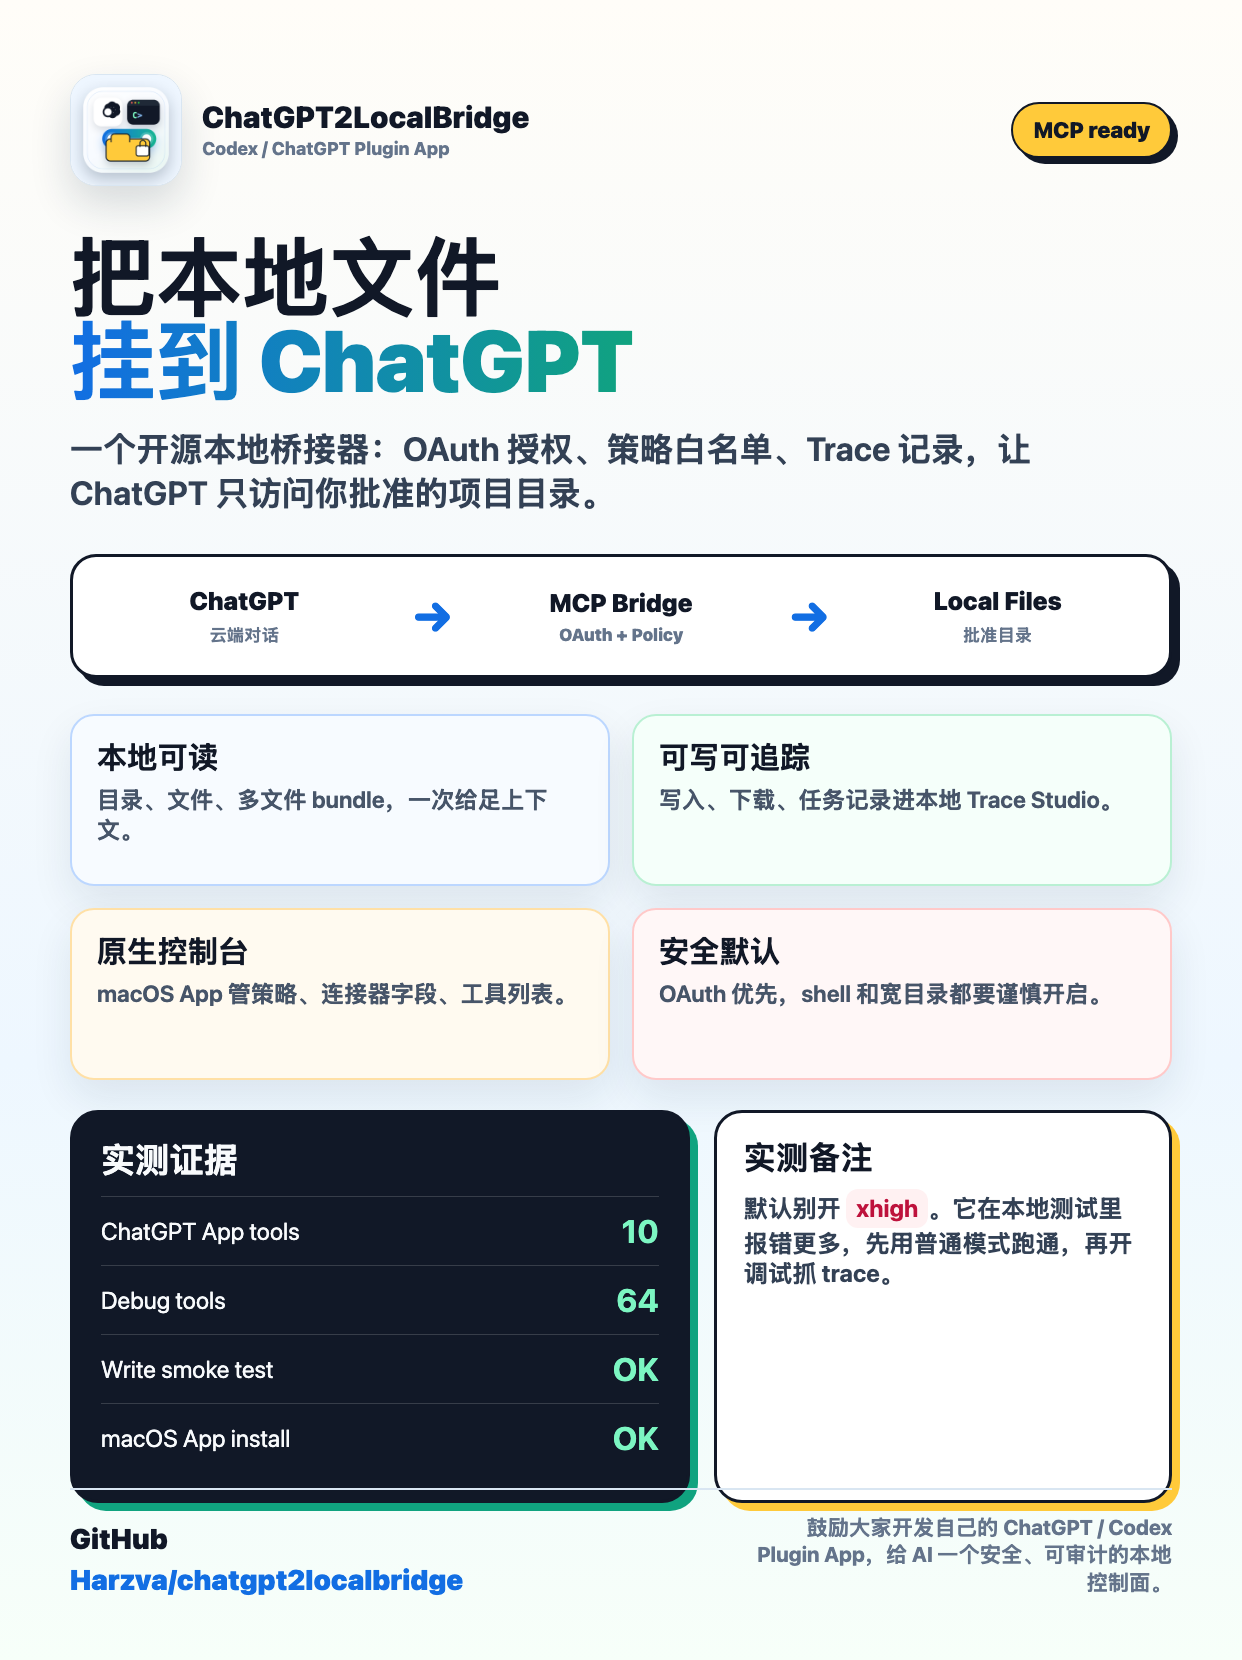
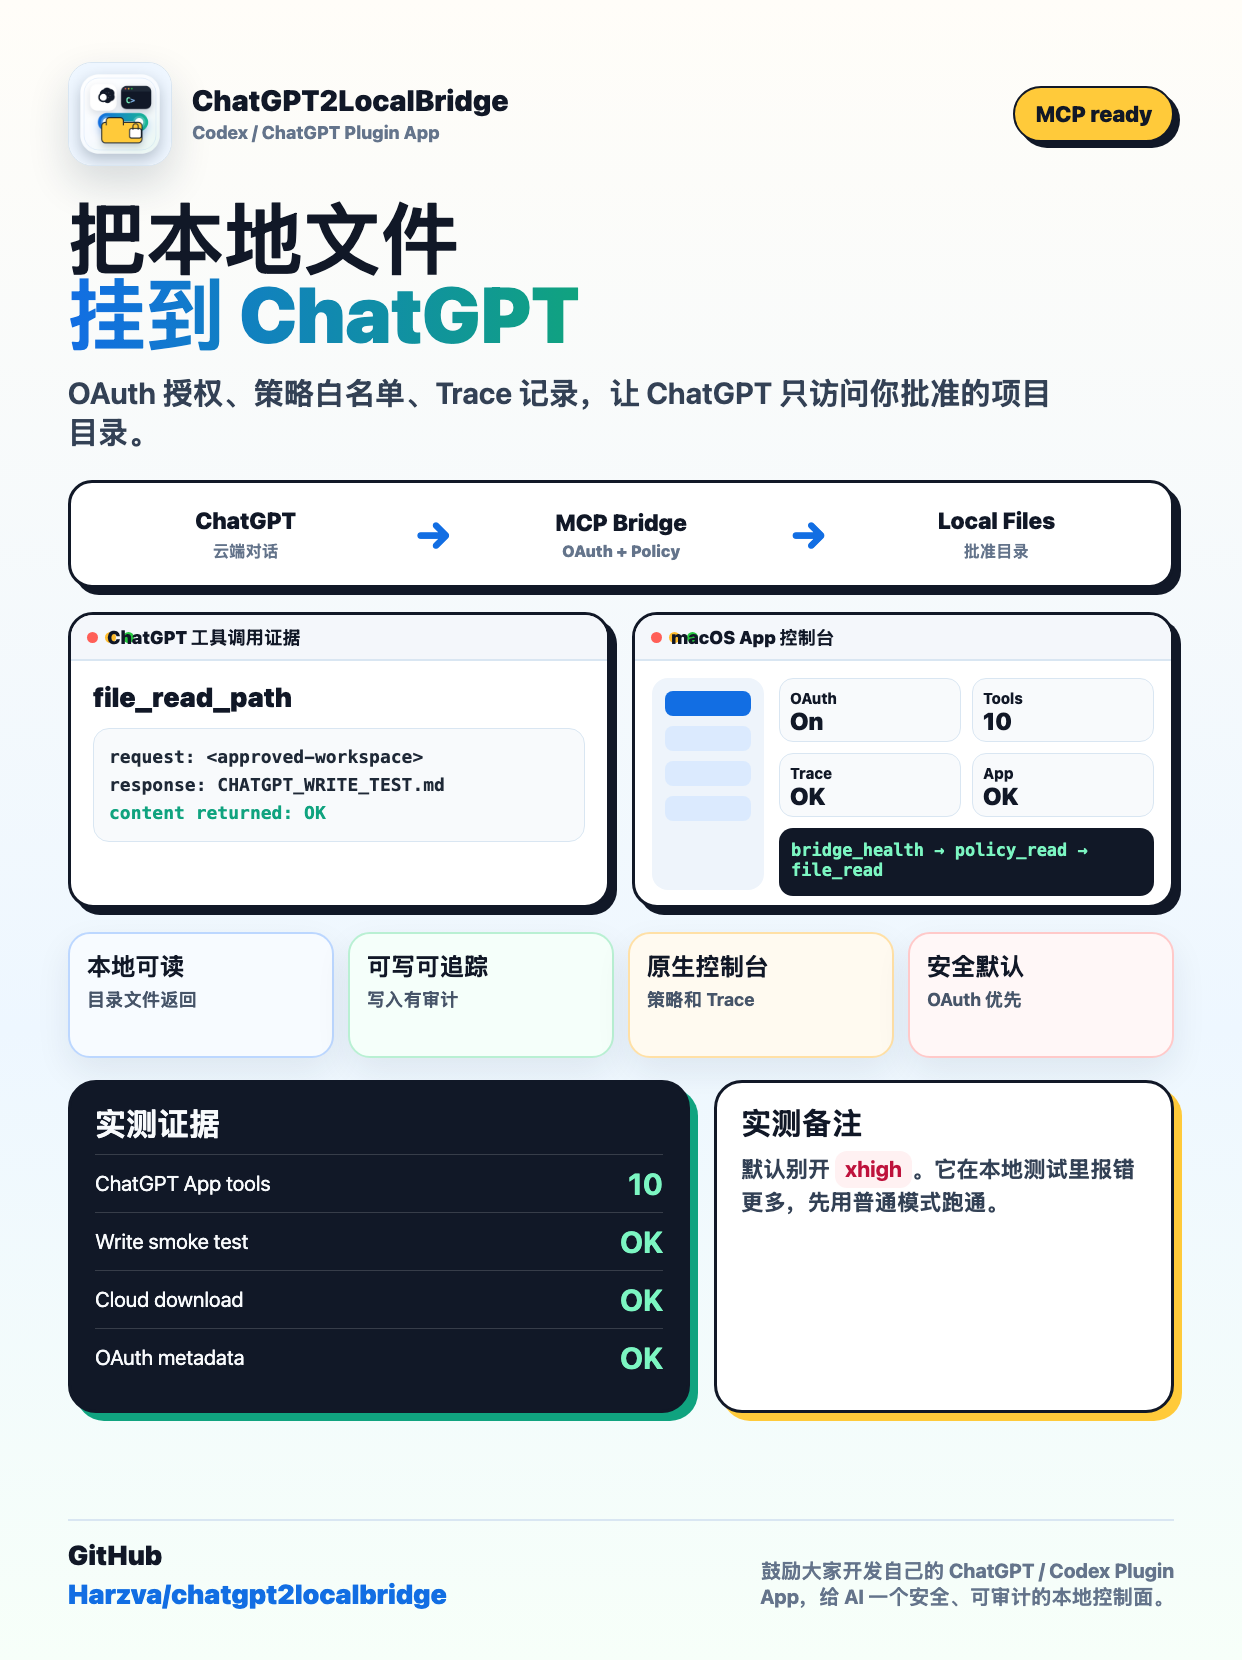
Add XHS evidence and community promo assets

Changed region(s): [[0.0306, 0.0307, 0.9485, 0.9831], [0.7955, 0.0307, 0.9485, 0.1229]]

diff --git a/docs/assets/mockups/xhs-promo.html b/docs/assets/mockups/xhs-promo.html
@@ -1,12 +1,13 @@
 <!doctype html><html><head><meta charset="utf-8"><style>
   *{box-sizing:border-box}body{margin:0;width:1242px;height:1660px;background:#f7f4ee;font-family:-apple-system,BlinkMacSystemFont,"SF Pro Display","PingFang SC","Microsoft YaHei",Arial,sans-serif;color:#111827;overflow:hidden}
-  .page{position:relative;width:100%;height:100%;padding:74px 70px;background:linear-gradient(180deg,#fffdf8 0%,#eef7ff 64%,#f7fff9 100%)}
-  .top{display:flex;align-items:center;justify-content:space-between;margin-bottom:48px}
-  .brand{display:flex;align-items:center;gap:20px}.logo{width:112px;height:112px;border-radius:26px;background:#fff;border:1px solid #d9e6f2;box-shadow:0 18px 40px rgba(20,42,70,.16);overflow:hidden}.logo img{width:100%;height:100%;display:block}.brandText{font-size:30px;font-weight:900;line-height:1.05}.brandText span{display:block;font-size:18px;color:#64748b;margin-top:8px;font-weight:800}
+  .page{position:relative;width:100%;height:100%;padding:62px 68px;background:linear-gradient(180deg,#fffdf8 0%,#eef7ff 62%,#f7fff9 100%)}
+  .top{display:flex;align-items:center;justify-content:space-between;margin-bottom:34px}
+  .brand{display:flex;align-items:center;gap:20px}.logo{width:104px;height:104px;border-radius:24px;background:#fff;border:1px solid #d9e6f2;box-shadow:0 18px 40px rgba(20,42,70,.16);overflow:hidden}.logo img{width:100%;height:100%;display:block}.brandText{font-size:29px;font-weight:900;line-height:1.05}.brandText span{display:block;font-size:18px;color:#64748b;margin-top:8px;font-weight:800}
   .badge{border:2px solid #111827;border-radius:999px;padding:13px 20px;font-size:22px;font-weight:900;background:#ffca3a;box-shadow:6px 6px 0 #111827}
-  h1{font-size:86px;line-height:.98;letter-spacing:0;margin:0 0 24px;font-weight:950;max-width:1030px}.grad{background:linear-gradient(90deg,#126ee3,#10a37f);-webkit-background-clip:text;color:transparent}.sub{font-size:33px;line-height:1.36;color:#334155;max-width:990px;margin:0 0 38px;font-weight:650}
-  .route{height:124px;border:3px solid #111827;border-radius:26px;background:#fff;box-shadow:8px 8px 0 #111827;display:grid;grid-template-columns:1fr 90px 1fr 90px 1fr;align-items:center;padding:0 28px;margin-bottom:36px}.node{text-align:center;font-size:25px;font-weight:900}.node small{display:block;font-size:17px;color:#64748b;margin-top:8px}.arrow{text-align:center;font-size:44px;color:#126ee3;font-weight:950}
-  .grid{display:grid;grid-template-columns:1fr 1fr;gap:22px;margin-bottom:30px}.card{min-height:172px;background:#fff;border:2px solid #d9e6f2;border-radius:24px;padding:24px 25px;box-shadow:0 18px 42px rgba(20,42,70,.09)}.card strong{display:block;font-size:30px;line-height:1.1;margin-bottom:12px}.card p{font-size:23px;line-height:1.28;color:#475569;margin:0;font-weight:650}.card.blue{border-color:#bcd7ff;background:#f7fbff}.card.green{border-color:#b9f0d3;background:#f5fffa}.card.yellow{border-color:#ffe0a6;background:#fffaf0}.card.red{border-color:#ffc9c9;background:#fff7f7}
-  .proof{display:grid;grid-template-columns:1.15fr .85fr;gap:24px;margin-bottom:34px}.panel{border:3px solid #111827;border-radius:28px;background:#111827;color:#f8fafc;padding:28px;box-shadow:8px 8px 0 #10a37f}.panel h2{font-size:34px;line-height:1.08;margin:0 0 18px}.metric{display:flex;justify-content:space-between;align-items:center;border-top:1px solid rgba(255,255,255,.16);padding:15px 0;font-size:24px}.metric b{font-size:32px;color:#7cf6c2}.warn{border:3px solid #111827;border-radius:28px;background:#fff;box-shadow:8px 8px 0 #ffca3a;padding:27px}.warn h2{font-size:32px;line-height:1.08;margin:0 0 14px}.warn p{font-size:24px;line-height:1.28;margin:0;color:#334155;font-weight:700}.warn .x{display:inline-block;background:#fff1f2;color:#be123c;border-radius:12px;padding:4px 10px}
-  .footer{position:absolute;left:70px;right:70px;bottom:64px;display:flex;align-items:end;justify-content:space-between;border-top:2px solid #d9e6f2;padding-top:24px}.repo{font-size:28px;font-weight:950}.repo span{display:block;color:#126ee3;margin-top:8px}.line{font-size:21px;line-height:1.3;color:#64748b;text-align:right;font-weight:750;max-width:430px}
-  </style></head><body><main class="page"><section class="top"><div class="brand"><div class="logo"><img src="../logo.png" alt=""></div><div class="brandText">ChatGPT2LocalBridge<span>Codex / ChatGPT Plugin App</span></div></div><div class="badge">MCP ready</div></section><h1>把本地文件<br><span class="grad">挂到 ChatGPT</span></h1><p class="sub">一个开源本地桥接器：OAuth 授权、策略白名单、Trace 记录，让 ChatGPT 只访问你批准的项目目录。</p><section class="route"><div class="node">ChatGPT<small>云端对话</small></div><div class="arrow">→</div><div class="node">MCP Bridge<small>OAuth + Policy</small></div><div class="arrow">→</div><div class="node">Local Files<small>批准目录</small></div></section><section class="grid"><div class="card blue"><strong>本地可读</strong><p>目录、文件、多文件 bundle，一次给足上下文。</p></div><div class="card green"><strong>可写可追踪</strong><p>写入、下载、任务记录进本地 Trace Studio。</p></div><div class="card yellow"><strong>原生控制台</strong><p>macOS App 管策略、连接器字段、工具列表。</p></div><div class="card red"><strong>安全默认</strong><p>OAuth 优先，shell 和宽目录都要谨慎开启。</p></div></section><section class="proof"><div class="panel"><h2>实测证据</h2><div class="metric"><span>ChatGPT App tools</span><b>10</b></div><div class="metric"><span>Debug tools</span><b>64</b></div><div class="metric"><span>Write smoke test</span><b>OK</b></div><div class="metric"><span>macOS App install</span><b>OK</b></div></div><div class="warn"><h2>实测备注</h2><p>默认别开 <span class="x">xhigh</span>。它在本地测试里报错更多，先用普通模式跑通，再开调试抓 trace。</p></div></section><footer class="footer"><div class="repo">GitHub<span>Harzva/chatgpt2localbridge</span></div><div class="line">鼓励大家开发自己的 ChatGPT / Codex Plugin App，给 AI 一个安全、可审计的本地控制面。</div></footer></main></body></html>
+  h1{font-size:78px;line-height:.98;letter-spacing:0;margin:0 0 20px;font-weight:950;max-width:1030px}.grad{background:linear-gradient(90deg,#126ee3,#10a37f);-webkit-background-clip:text;color:transparent}.sub{font-size:30px;line-height:1.32;color:#334155;max-width:1010px;margin:0 0 28px;font-weight:650}
+  .route{height:108px;border:3px solid #111827;border-radius:24px;background:#fff;box-shadow:7px 7px 0 #111827;display:grid;grid-template-columns:1fr 78px 1fr 78px 1fr;align-items:center;padding:0 26px;margin-bottom:24px}.node{text-align:center;font-size:23px;font-weight:900}.node small{display:block;font-size:16px;color:#64748b;margin-top:6px}.arrow{text-align:center;font-size:40px;color:#126ee3;font-weight:950}
+  .shots{display:grid;grid-template-columns:1fr 1fr;gap:22px;margin-bottom:24px}.shot{height:296px;border:3px solid #111827;border-radius:25px;background:#fff;box-shadow:7px 7px 0 #111827;overflow:hidden}.shotHead{height:46px;background:#f4f7fb;border-bottom:2px solid #d9e6f2;display:flex;align-items:center;gap:9px;padding:0 16px;font-size:18px;font-weight:900}.dot{width:11px;height:11px;border-radius:50%;background:#ff5f57;box-shadow:18px 0 #ffbd2e,36px 0 #28c840}.toolBody{padding:20px 22px}.toolName{font-size:27px;font-weight:950;margin-bottom:15px}.code{background:#f8fafc;border:1px solid #d9e6f2;border-radius:16px;padding:14px 15px;font:700 18px ui-monospace,SFMono-Regular,Menlo,monospace;line-height:1.55;color:#1f2937}.ok{color:#10a37f}.appGrid{padding:17px;display:grid;grid-template-columns:112px 1fr;gap:15px}.side{background:#eef4fb;border-radius:16px;height:212px;padding:13px}.nav{height:25px;border-radius:8px;background:#dbeafe;margin-bottom:10px}.nav.on{background:#126ee3}.dash{display:grid;grid-template-columns:1fr 1fr;gap:11px}.tile{height:64px;border-radius:14px;background:#f8fafc;border:1px solid #d9e6f2;padding:10px;font-size:15px;font-weight:800}.tile b{display:block;font-size:24px;color:#111827}.trace{grid-column:1/3;height:68px;border-radius:14px;background:#111827;color:#7cf6c2;padding:12px;font:700 17px ui-monospace,SFMono-Regular,Menlo,monospace}
+  .grid{display:grid;grid-template-columns:repeat(4,1fr);gap:14px;margin-bottom:22px}.card{min-height:126px;background:#fff;border:2px solid #d9e6f2;border-radius:22px;padding:19px 17px;box-shadow:0 14px 34px rgba(20,42,70,.08)}.card strong{display:block;font-size:24px;line-height:1.1;margin-bottom:10px}.card p{font-size:18px;line-height:1.24;color:#475569;margin:0;font-weight:700}.card.blue{border-color:#bcd7ff;background:#f7fbff}.card.green{border-color:#b9f0d3;background:#f5fffa}.card.yellow{border-color:#ffe0a6;background:#fffaf0}.card.red{border-color:#ffc9c9;background:#fff7f7}
+  .proof{display:grid;grid-template-columns:1.15fr .85fr;gap:24px;margin-bottom:24px}.panel{border:3px solid #111827;border-radius:28px;background:#111827;color:#f8fafc;padding:24px;box-shadow:8px 8px 0 #10a37f}.panel h2{font-size:31px;line-height:1.08;margin:0 0 13px}.metric{display:flex;justify-content:space-between;align-items:center;border-top:1px solid rgba(255,255,255,.16);padding:11px 0;font-size:21px}.metric b{font-size:30px;color:#7cf6c2}.warn{border:3px solid #111827;border-radius:28px;background:#fff;box-shadow:8px 8px 0 #ffca3a;padding:24px}.warn h2{font-size:30px;line-height:1.08;margin:0 0 12px}.warn p{font-size:22px;line-height:1.28;margin:0;color:#334155;font-weight:700}.warn .x{display:inline-block;background:#fff1f2;color:#be123c;border-radius:12px;padding:4px 10px}
+  .footer{position:absolute;left:68px;right:68px;bottom:50px;display:flex;align-items:end;justify-content:space-between;border-top:2px solid #d9e6f2;padding-top:18px}.repo{font-size:27px;font-weight:950}.repo span{display:block;color:#126ee3;margin-top:7px}.line{font-size:20px;line-height:1.3;color:#64748b;text-align:right;font-weight:750;max-width:430px}
+  </style></head><body><main class="page"><section class="top"><div class="brand"><div class="logo"><img src="../logo.png" alt=""></div><div class="brandText">ChatGPT2LocalBridge<span>Codex / ChatGPT Plugin App</span></div></div><div class="badge">MCP ready</div></section><h1>把本地文件<br><span class="grad">挂到 ChatGPT</span></h1><p class="sub">OAuth 授权、策略白名单、Trace 记录，让 ChatGPT 只访问你批准的项目目录。</p><section class="route"><div class="node">ChatGPT<small>云端对话</small></div><div class="arrow">→</div><div class="node">MCP Bridge<small>OAuth + Policy</small></div><div class="arrow">→</div><div class="node">Local Files<small>批准目录</small></div></section><section class="shots"><div class="shot"><div class="shotHead"><span class="dot"></span><span>ChatGPT 工具调用证据</span></div><div class="toolBody"><div class="toolName">file_read_path</div><div class="code">request: &lt;approved-workspace&gt;<br>response: CHATGPT_WRITE_TEST.md<br><span class="ok">content returned: OK</span></div></div></div><div class="shot"><div class="shotHead"><span class="dot"></span><span>macOS App 控制台</span></div><div class="appGrid"><div class="side"><div class="nav on"></div><div class="nav"></div><div class="nav"></div><div class="nav"></div></div><div class="dash"><div class="tile">OAuth<b>On</b></div><div class="tile">Tools<b>10</b></div><div class="tile">Trace<b>OK</b></div><div class="tile">App<b>OK</b></div><div class="trace">bridge_health → policy_read → file_read</div></div></div></div></section><section class="grid"><div class="card blue"><strong>本地可读</strong><p>目录文件返回</p></div><div class="card green"><strong>可写可追踪</strong><p>写入有审计</p></div><div class="card yellow"><strong>原生控制台</strong><p>策略和 Trace</p></div><div class="card red"><strong>安全默认</strong><p>OAuth 优先</p></div></section><section class="proof"><div class="panel"><h2>实测证据</h2><div class="metric"><span>ChatGPT App tools</span><b>10</b></div><div class="metric"><span>Write smoke test</span><b>OK</b></div><div class="metric"><span>Cloud download</span><b>OK</b></div><div class="metric"><span>OAuth metadata</span><b>OK</b></div></div><div class="warn"><h2>实测备注</h2><p>默认别开 <span class="x">xhigh</span>。它在本地测试里报错更多，先用普通模式跑通。</p></div></section><footer class="footer"><div class="repo">GitHub<span>Harzva/chatgpt2localbridge</span></div><div class="line">鼓励大家开发自己的 ChatGPT / Codex Plugin App，给 AI 一个安全、可审计的本地控制面。</div></footer></main></body></html>

diff --git a/docs/assets/mockups/xhs-community.html b/docs/assets/mockups/xhs-community.html
@@ -1,0 +1,10 @@
+<!doctype html><html><head><meta charset="utf-8"><style>
+  *{box-sizing:border-box}body{margin:0;width:1242px;height:1660px;background:#fffaf0;font-family:-apple-system,BlinkMacSystemFont,"SF Pro Display","PingFang SC","Microsoft YaHei",Arial,sans-serif;color:#111827;overflow:hidden}
+  .page{width:100%;height:100%;padding:70px;background:linear-gradient(180deg,#fffdf8 0%,#f2f8ff 56%,#f7fff9 100%)}
+  .top{display:flex;justify-content:space-between;align-items:center;margin-bottom:44px}.brand{display:flex;align-items:center;gap:18px}.logo{width:104px;height:104px;border-radius:24px;background:#fff;border:1px solid #d9e6f2;box-shadow:0 18px 40px rgba(20,42,70,.16);overflow:hidden}.logo img{width:100%;height:100%}.name{font-size:30px;font-weight:950}.name span{display:block;font-size:18px;color:#64748b;margin-top:8px}.badge{border:2px solid #111827;border-radius:999px;background:#10a37f;color:white;padding:13px 20px;font-size:22px;font-weight:900;box-shadow:6px 6px 0 #111827}
+  h1{font-size:78px;line-height:1;letter-spacing:0;margin:0 0 20px;font-weight:950}.grad{background:linear-gradient(90deg,#126ee3,#8b5cf6);-webkit-background-clip:text;color:transparent}.sub{font-size:30px;line-height:1.33;color:#334155;font-weight:700;margin:0 0 34px;max-width:1000px}
+  .evidence{display:grid;grid-template-columns:1fr 1fr;gap:24px;margin-bottom:28px}.window{height:344px;border:3px solid #111827;border-radius:28px;background:#fff;box-shadow:8px 8px 0 #111827;overflow:hidden}.bar{height:48px;background:#f4f7fb;border-bottom:2px solid #d9e6f2;display:flex;align-items:center;gap:9px;padding:0 16px;font-size:18px;font-weight:900}.dot{width:11px;height:11px;border-radius:50%;background:#ff5f57;box-shadow:18px 0 #ffbd2e,36px 0 #28c840}.body{padding:23px}.tool{font-size:30px;font-weight:950;margin-bottom:16px}.code{background:#f8fafc;border:1px solid #d9e6f2;border-radius:16px;padding:15px;font:700 18px ui-monospace,SFMono-Regular,Menlo,monospace;line-height:1.55;color:#1f2937}.red{color:#be123c}.green{color:#10a37f}
+  .todo{border:3px solid #111827;border-radius:30px;background:#111827;color:#f8fafc;padding:30px;box-shadow:9px 9px 0 #ffca3a;margin-bottom:28px}.todo h2{font-size:39px;margin:0 0 20px}.items{display:grid;grid-template-columns:1fr 1fr;gap:17px}.item{border:1px solid rgba(255,255,255,.18);border-radius:20px;padding:18px;background:rgba(255,255,255,.06)}.item b{display:block;font-size:25px;margin-bottom:8px}.item span{font-size:20px;line-height:1.28;color:#d7e3f5;font-weight:700}
+  .pr{display:grid;grid-template-columns:1fr 1fr 1fr;gap:18px;margin-bottom:36px}.card{min-height:164px;background:#fff;border:2px solid #d9e6f2;border-radius:24px;padding:22px;box-shadow:0 16px 36px rgba(20,42,70,.09)}.card b{display:block;font-size:29px;margin-bottom:12px}.card span{font-size:21px;line-height:1.28;color:#475569;font-weight:700}.card.blue{border-color:#bcd7ff}.card.green{border-color:#b9f0d3}.card.purple{border-color:#d8c7ff}
+  .cta{border:3px solid #111827;border-radius:30px;background:#fff;box-shadow:9px 9px 0 #10a37f;padding:30px;display:flex;justify-content:space-between;gap:28px;align-items:end}.repo{font-size:30px;font-weight:950}.repo span{display:block;color:#126ee3;margin-top:10px}.copy{font-size:24px;line-height:1.32;color:#334155;text-align:right;font-weight:800;max-width:520px}
+  </style></head><body><main class="page"><section class="top"><div class="brand"><div class="logo"><img src="../logo.png" alt=""></div><div class="name">ChatGPT2LocalBridge<span>Open-source Plugin App</span></div></div><div class="badge">PR welcome</div></section><h1>欢迎开发者<br><span class="grad">一起共建</span></h1><p class="sub">这不是裸 shell 代理：策略会拦截风险命令。下一步重点是 Linux 适配，欢迎 Issue 和 PR。</p><section class="evidence"><div class="window"><div class="bar"><span class="dot"></span><span>安全策略证据</span></div><div class="body"><div class="tool">shell_exec</div><div class="code">request: risky wording<br><span class="red">blocked by policy</span><br>rewrite as plain text<br><span class="green">TXT saved: OK</span></div></div></div><div class="window"><div class="bar"><span class="dot"></span><span>工具调用链路</span></div><div class="body"><div class="tool">MCP trace</div><div class="code">bridge_health → OK<br>policy_read → OK<br>file_read_path → OK<br>cloud_download → OK</div></div></div></section><section class="todo"><h2>Linux Todo</h2><div class="items"><div class="item"><b>systemd service</b><span>稳定后台运行和日志</span></div><div class="item"><b>Tunnel examples</b><span>Cloudflare / ngrok 配置</span></div><div class="item"><b>Security profile</b><span>更细的 shell 和 root 策略</span></div><div class="item"><b>Distro docs</b><span>Ubuntu / Debian / Arch 实测</span></div></div></section><section class="pr"><div class="card blue"><b>需要 PR</b><span>Linux 安装脚本、服务模板、部署教程。</span></div><div class="card green"><b>需要实测</b><span>不同服务器、VPN、隧道、权限模型。</span></div><div class="card purple"><b>需要插件</b><span>欢迎做自己的 ChatGPT / Codex Plugin App。</span></div></section><section class="cta"><div class="repo">GitHub<span>Harzva/chatgpt2localbridge</span></div><div class="copy">想让 ChatGPT 更安全地连接本地和服务器？来一起补 Linux 适配。</div></section></main></body></html>

diff --git a/docs/promo/xhs-note.md b/docs/promo/xhs-note.md
@@ -6,6 +6,23 @@
 2. 我做了一个本地 MCP 插件 App
 3. ChatGPT 也能看本地项目了
 
+## Recommended Image Order
+
+1. `docs/assets/xhs-promo.png`
+   首图，放项目定位、核心能力、实测数字和安全提醒。
+2. ChatGPT 工具调用截图
+   使用你发的工具调用列表截图，重点露出 `file_read_path`、`local_workspace_action`、返回 `CHATGPT_WRITE_TEST.md` 内容这几个证据点。发布前把完整本机路径打码或裁切成 `<approved-workspace>/...`。
+3. shell_exec 策略拦截图
+   使用你发的 `shell_exec` 截图，重点说明：高危命令措辞被 bridge 安全策略拦截，改成纯文本计划后成功写入 TXT。这证明它不是裸 shell 代理。
+4. macOS App 控制台截图
+   放连接器 URL、OAuth、工具数量、Trace/调用记录区域，证明它不是纯命令行 demo，而是有本地控制面。
+5. `docs/assets/xhs-community.png`
+   欢迎开发者共建和 PR，突出 Linux 适配 Todo。
+6. `docs/evidence.md` 截图
+   展示测试摘要：`chatgpt-app tools ok (10)`、`file_write ok`、`cloud download write ok`、`oauth metadata ok`。
+7. GitHub README / Pages 截图
+   展示开源仓库、安装方式、GitHub Pages 教程入口。
+
 ## Main Copy
 
 我把 ChatGPT2LocalBridge 整理成了一个独立开源项目。
@@ -13,7 +30,19 @@
 它不是传统浏览器插件，而是一个面向 ChatGPT / Codex 的本地 Plugin App：
 本机跑一个 MCP bridge，ChatGPT 通过 OAuth 授权后，只能访问你批准的本地目录。
 
-这次重点补齐了几个真实可用的能力：
+这次不是只做概念图，而是把实测证据也整理进仓库了：
+
+- ChatGPT 侧工具调用截图里，可以看到 `file_read_path` 成功读取本地写入测试文件
+- 工具调用列表里有 `bridge_health`、`policy_read`、`local_workspace_action`、`file_read_path`
+- 测试脚本显示 `chatgpt-app tools ok (10)`
+- 写入链路通过：`file_write ok`、`local_write_file ok`、`local_workspace_action write_file ok`
+- 云端文件下载到本地通过：`cloud download write ok`
+- OAuth 元数据通过：`oauth metadata ok`
+- macOS App 已安装到本地，可以看连接器字段、工具数量、策略和 Trace 记录
+- `shell_exec` 里包含高危命令措辞时被安全策略拦截，改成纯文本后再写入成功
+- Linux 版本还需要更多适配和实测，欢迎开发者 PR
+
+现在它能做的事：
 
 - 本地目录读取和文件内容读取
 - 多文件 bundle，方便一次性给 ChatGPT 上下文
@@ -22,11 +51,44 @@
 - OAuth / unlock code 授权流程
 - GitHub Pages 宣传页和截图教程
 
-实测经验：不要默认开启 xhigh / XHigh 模式，报错会明显更多。普通模式先跑通，再开调试模式抓 trace。
+实测经验：不要默认开启 xhigh / XHigh 模式，报错会明显更多。普通模式先跑通，再开调试模式抓 trace。这个备注我也写进了 evidence 文档里。
 
 我更想把它定位成一个开源倡议：大家都可以为 ChatGPT / Codex 做自己的 Plugin App。核心不是把电脑裸奔暴露出去，而是给 AI 一个安全、可审计、可停止的本地控制面。
 
+Todo：Linux 适配还需要继续完善，尤其是 systemd service、Cloudflare Tunnel、服务器安全策略、不同发行版安装脚本。欢迎提 issue / PR 一起共建。
+
 GitHub: Harzva/chatgpt2localbridge
+
+## Short Version
+
+做了一个开源项目：ChatGPT2LocalBridge。
+
+它让 ChatGPT 通过 MCP + OAuth 访问你批准的本地目录，并且所有读取、写入、下载、工具调用都能在本地 App 里看记录。
+
+实测已经跑通：
+
+- ChatGPT 调用工具读取本地文件
+- 写入测试文件并再次读回
+- 云端文件下载到本地
+- macOS App 显示工具、策略、Trace
+- 高危 shell 命令措辞会被策略拦截
+- `chatgpt-app` profile 暴露 10 个工具
+
+注意：别默认开 xhigh / XHigh，实测报错更多。先普通模式跑通，再调试。
+
+Linux 适配欢迎 PR：systemd、隧道、安装脚本、安全策略都可以一起补。
+
+GitHub: Harzva/chatgpt2localbridge
+
+## Screenshot Captions
+
+- 图 1：项目首图，把本地文件安全挂到 ChatGPT。
+- 图 2：ChatGPT 实际工具调用，`file_read_path` 成功返回本地测试文件内容。
+- 图 3：`shell_exec` 安全策略拦截，高危措辞不会直接执行。
+- 图 4：macOS App 控制台，能看连接器 URL、OAuth、工具数量和 Trace。
+- 图 5：欢迎开发者共建，Linux 适配 Todo 欢迎 PR。
+- 图 6：Evidence 文档，记录 build/test、写入、下载、OAuth 测试结果。
+- 图 7：GitHub README，开源安装和教程入口。
 
 ## Tags
 

diff --git a/docs/evidence.md b/docs/evidence.md
@@ -51,6 +51,18 @@ an OAuth custom connector. The useful troubleshooting finding was:
 - Write behavior is separately verified by
   [`CHATGPT_WRITE_TEST.md`](./CHATGPT_WRITE_TEST.md), a harmless Markdown file
   created through the connector flow.
+- A `shell.exec` attempt that included risky command wording was blocked by the
+  bridge safety policy. The plan was rewritten as plain text and then saved as a
+  local TXT artifact. This is expected behavior and is useful evidence that the
+  bridge is not a raw unrestricted command proxy.
+
+## Community Todo
+
+- Linux packaging and deployment need more field testing.
+- Linux connector profiles should stay separate from macOS profiles so each
+  machine keeps a narrow policy.
+- Contributions and PRs are welcome, especially for Linux service installers,
+  Cloudflare Tunnel examples, systemd hardening, and distro-specific docs.
 
 ## Known Field Notes
 
@@ -69,3 +81,4 @@ an OAuth custom connector. The useful troubleshooting finding was:
 - `question/understanding.md`: public troubleshooting explanation of why write
   tools were missing before the profile update.
 - `docs/assets/xhs-promo.png`: shareable Xiaohongshu-style product card.
+- `docs/assets/xhs-community.png`: shareable community/PR card with Linux todo.